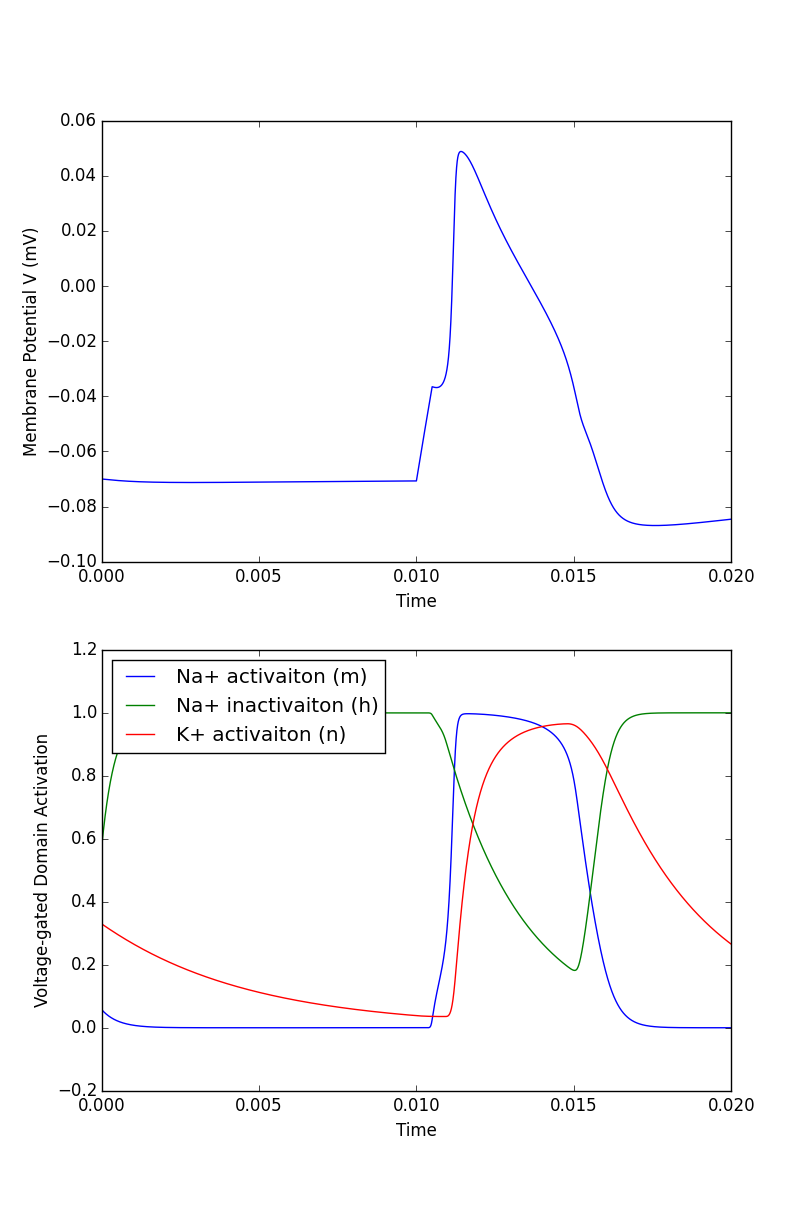
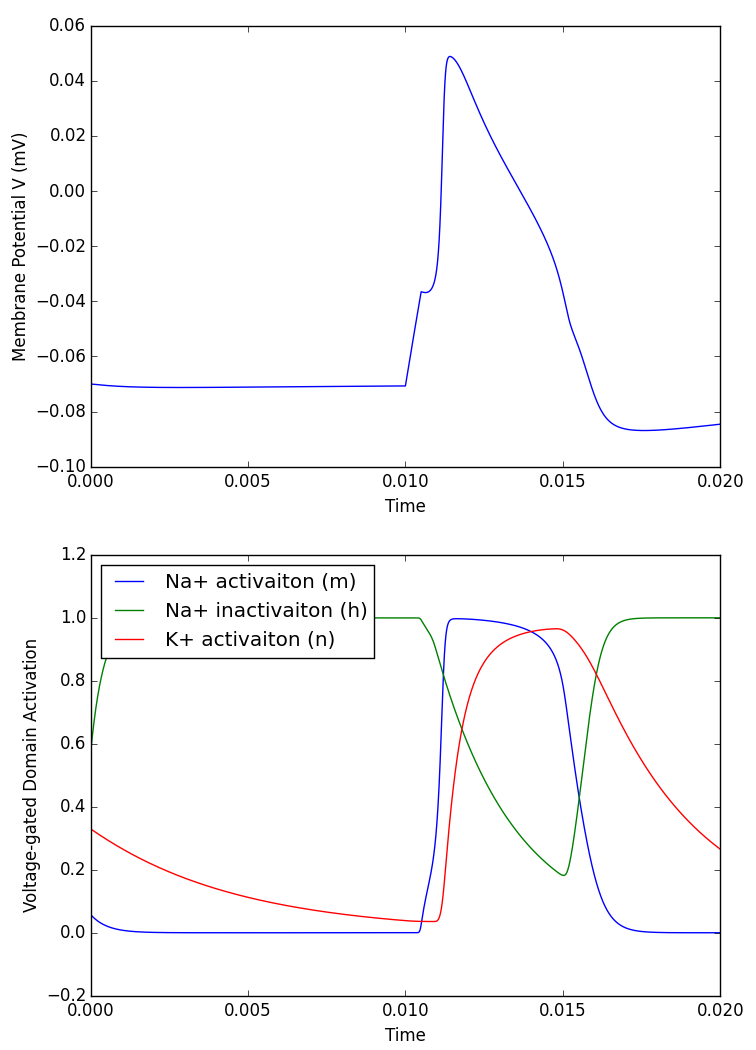
uploaded final figures

diff --git a/M1R_HH_KCNQ.py b/M1R_HH_KCNQ.py
@@ -13,16 +13,16 @@ from mpl_toolkits.mplot3d import Axes3D
 # set up a dictionary of parameters
 params = {
 
-        'V_0' : -70e-3, # initial conditions
-        't_max' : 3e1, 
+        'V_0' : -70e-3, # membrane potential, 1e-3 = 1 milliVolt
+        't_max' : 2e1, # time, 1e-3 = 1 millisecond
         't_step' : 1e-4,
-        'I_ext'  : 3.15e-9,   # injected current
-        'I_start' : 2e1,
-        'I_end' : 2e1+5e-4,
+        'I_ext'  : 0e-9,   # injected current, 1e-9 = 1 microAmp
+        'I_start' : 1e-2,
+        'I_end' : 1e-2+5e-4,
         'clamped_state' : 'False', #'False'=none, 0=voltage, 3=pip2
 
 
-        'oxoM_EX_0' : 1e1,      # initial state
+        'oxoM_EX_0' : 0e1,      # initial state
         'PIP2_M_0' : 1e2,    
         'KCNQ_PIP2_M_0' : 0.0,   
         'KCNQ_M_0' : 4.0,     
@@ -419,15 +419,15 @@ def dynamics_experiment(t,params):
         ax.set_ylabel('Membrane Potential V (mV)')
 
         ax=fig.add_subplot(312)
-        # m, = ax.plot(t, state[:,22], label="Na+ activaiton (m)")
-        # h, = ax.plot(t, state[:,23], label="Na+ inactivaiton (h)")
-        # n, = ax.plot(t, state[:,24], label="K+ activaiton (n)")
+        m, = ax.plot(t, state[:,22], label="Na+ activaiton (m)")
+        h, = ax.plot(t, state[:,23], label="Na+ inactivaiton (h)")
+        n, = ax.plot(t, state[:,24], label="K+ activaiton (n)")
 
-        ax.plot(t, state[:,3])
-        ax.set_xlim([a,b])
-        ax.ticklabel_format(useOffset=False)
-        ax.set_xlabel('Time')
-        ax.set_ylabel('PIP2')
+        # ax.plot(t, state[:,3])
+        # ax.set_xlim([a,b])
+        # ax.ticklabel_format(useOffset=False)
+        # ax.set_xlabel('Time')
+        # ax.set_ylabel('PIP2')
 
         #recalculation of KCNQ_open
         KCNQ_open_recalc=[]
@@ -446,13 +446,14 @@ def dynamics_experiment(t,params):
                 PP0_max=(kg+theta*kp*kg)/(1+kg+kp+theta*kp*kg)
                 KCNQ_open_recalc.append(PP0/PP0_max)
 
-        ax=fig.add_subplot(313)
+        # ax=fig.add_subplot(313)
         kcnq, = ax.plot(t, KCNQ_open_recalc, label="KCNQ activaiton")
-        # ax.legend(handles = [m,h,n,kcnq], loc=2)
+        ax.legend(handles = [m,h,n,kcnq], loc=2)
         ax.set_xlim([a,b])
         ax.ticklabel_format(useOffset=False)
         ax.set_xlabel('Time')
-        ax.set_ylabel('KCNQ Conductance (g/g_max)')
+        ax.set_ylabel('Volgate gated Domain Activation')
+        # ax.set_ylabel('KCNQ Conductance (g/g_max)')
 
         plt.show()
 
@@ -512,7 +513,7 @@ def oxom_concentration_experiment(t,params,oxom_list):
                         (1+kg+kp+kv+kv*kg+kp*kg+kv*kp+theta*kv*kp*kg))
                         / ((kg+theta*kp*kg)/(1+kg+kp+theta*kp*kg))))
 
-        fig=plt.figure(figsize=(8,12))
+        fig=plt.figure(figsize=(8,4))
         ax=fig.add_subplot(111)
         ax.plot(np.log10(oxom_list),KCNQ_open_list)
         ax.set_xlabel('log_10 Oxo_M')
@@ -524,14 +525,14 @@ def main(params):
         # run simulation
         t = np.arange(0, params['t_max'],params['t_step'])
 
-        dynamics_experiment(t, params)
+        # dynamics_experiment(t, params)
 
         # voltage_values = np.linspace(-120e-3,40e-3,30)
         # pip2_values = np.logspace(-3, 5, 30, base=10.0)
         # kcnq_v_pip2_experiment(t,params,voltage_values,pip2_values)
         
-        # oxom_values = np.logspace(-3,2,30,base=10.0)
-        # oxom_concentration_experiment(t,params,oxom_values)
+        oxom_values = np.logspace(-3,2,30,base=10.0)
+        oxom_concentration_experiment(t,params,oxom_values)
 
 
 main(params)
